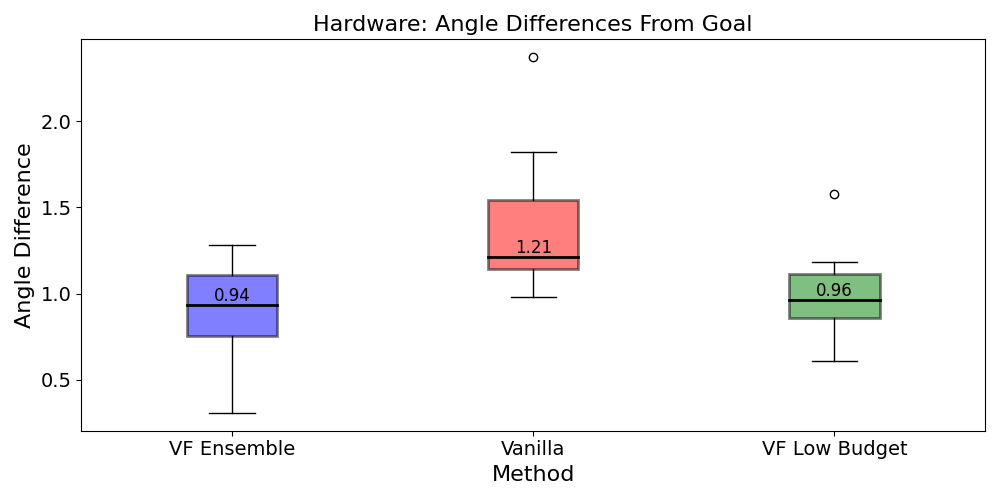
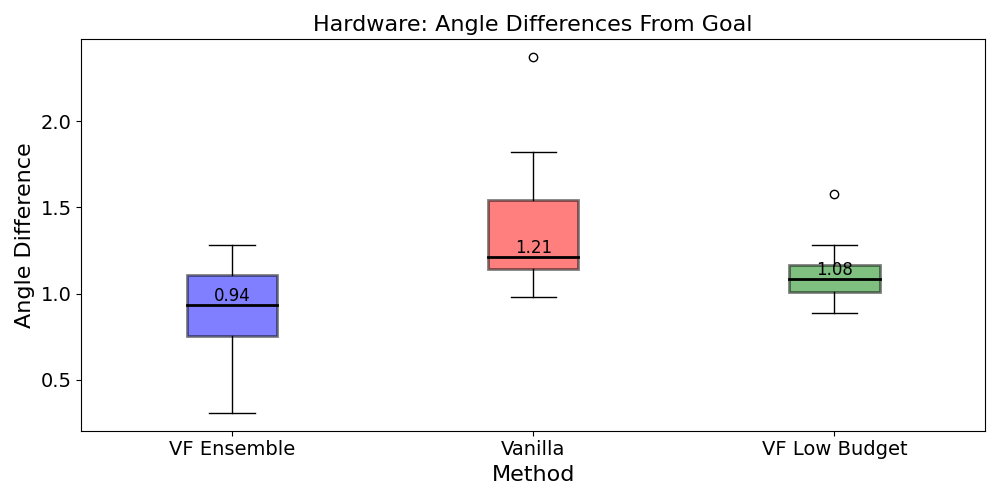
new hardware results

Changed region(s): [[0.775, 0.48, 0.899, 0.66], [0.806, 0.72, 0.868, 0.75]]

diff --git a/_value_function/test/test_method_hardware.py b/_value_function/test/test_method_hardware.py
@@ -38,6 +38,7 @@ if __name__ == '__main__':
 
     regrasp_iters = 80
     turn_iters = 100
+    online_iters = 12
 
     vf_weight_rg = 5.0
     other_weight_rg = 1.9
@@ -190,6 +191,36 @@ if __name__ == '__main__':
             regrasp_pose_vf, config, env,
             sim_env, ros_copy_node, chain, sim, gym, viewer, state2ee_pos_partial,
             perception_noise=perception_noise, image_path=img_save_dir, iters=50,mode='vf',
+            model_name="ensemble_t", initial_yaw = regrasp_pose_vf[0, -2],
+            vf_weight=vf_weight_t, other_weight=other_weight_t, variance_ratio=variance_ratio_t,
+            sim_viz_env=sim_env
+        )
+
+        # Store the VF approach result
+        result = [pregrasp_pose, regrasp_pose_vf, regrasp_traj_vf, turn_pose_vf, turn_traj_vf]
+        turn_cost = calculate_turn_cost(regrasp_pose_vf.numpy(), turn_pose_vf)
+        print('---------------------------------')
+        print(f"VF low iter cost: {turn_cost}")
+        print('---------------------------------')
+
+    elif method == 'low2':
+        env.default_dof_pos = pregrasp_pose[:, :16]
+        env.reset()
+    
+        regrasp_pose_vf, regrasp_traj_vf, regrasp_plan, initial_samples = regrasp(
+                env, config, chain, state2ee_pos_partial, perception_noise=perception_noise,
+                image_path=img_save_dir, initialization=pregrasp_pose, mode='vf', iters=40, 
+                online_iters = online_iters,
+                model_name = "ensemble_rg",
+                vf_weight=vf_weight_rg, other_weight=other_weight_rg, variance_ratio=variance_ratio_rg,
+                sim_viz_env=sim_env
+        )
+    
+        _, turn_pose_vf, succ_vf, turn_traj_vf, turn_plan, initial_samples = do_turn(
+            regrasp_pose_vf, config, env,
+            sim_env, ros_copy_node, chain, sim, gym, viewer, state2ee_pos_partial,
+            perception_noise=perception_noise, image_path=img_save_dir, iters=50,mode='vf',
+            online_iters = online_iters,
             model_name="ensemble_t", initial_yaw = regrasp_pose_vf[0, -2],
             vf_weight=vf_weight_t, other_weight=other_weight_t, variance_ratio=variance_ratio_t,
             sim_viz_env=sim_env

diff --git a/_value_function/visualization/vis_hardware.py b/_value_function/visualization/vis_hardware.py
@@ -21,7 +21,7 @@ save_dir = pathlib.Path(f'{CCAI_PATH}/data/figures')
 
 data = {}
 annotate = True
-methods = ['vf', 'novf', 'vf_low']
+methods = ['vf', 'novf', 'low2']  # 'vf_low'
 # params, env, sim_env, ros_copy_node, chain, sim, gym, viewer, state2ee_pos_partial = init_env(visualize=True)
 
 for method_nick in methods:
@@ -30,7 +30,7 @@ for method_nick in methods:
         method = "Vanilla"
     elif method_nick == "vf":
         method = "VF Ensemble"
-    elif method_nick == "vf_low":
+    elif method_nick == "low2":
         method = "VF Low Budget"
     else:
         print(f"{method} is not a valid method")
